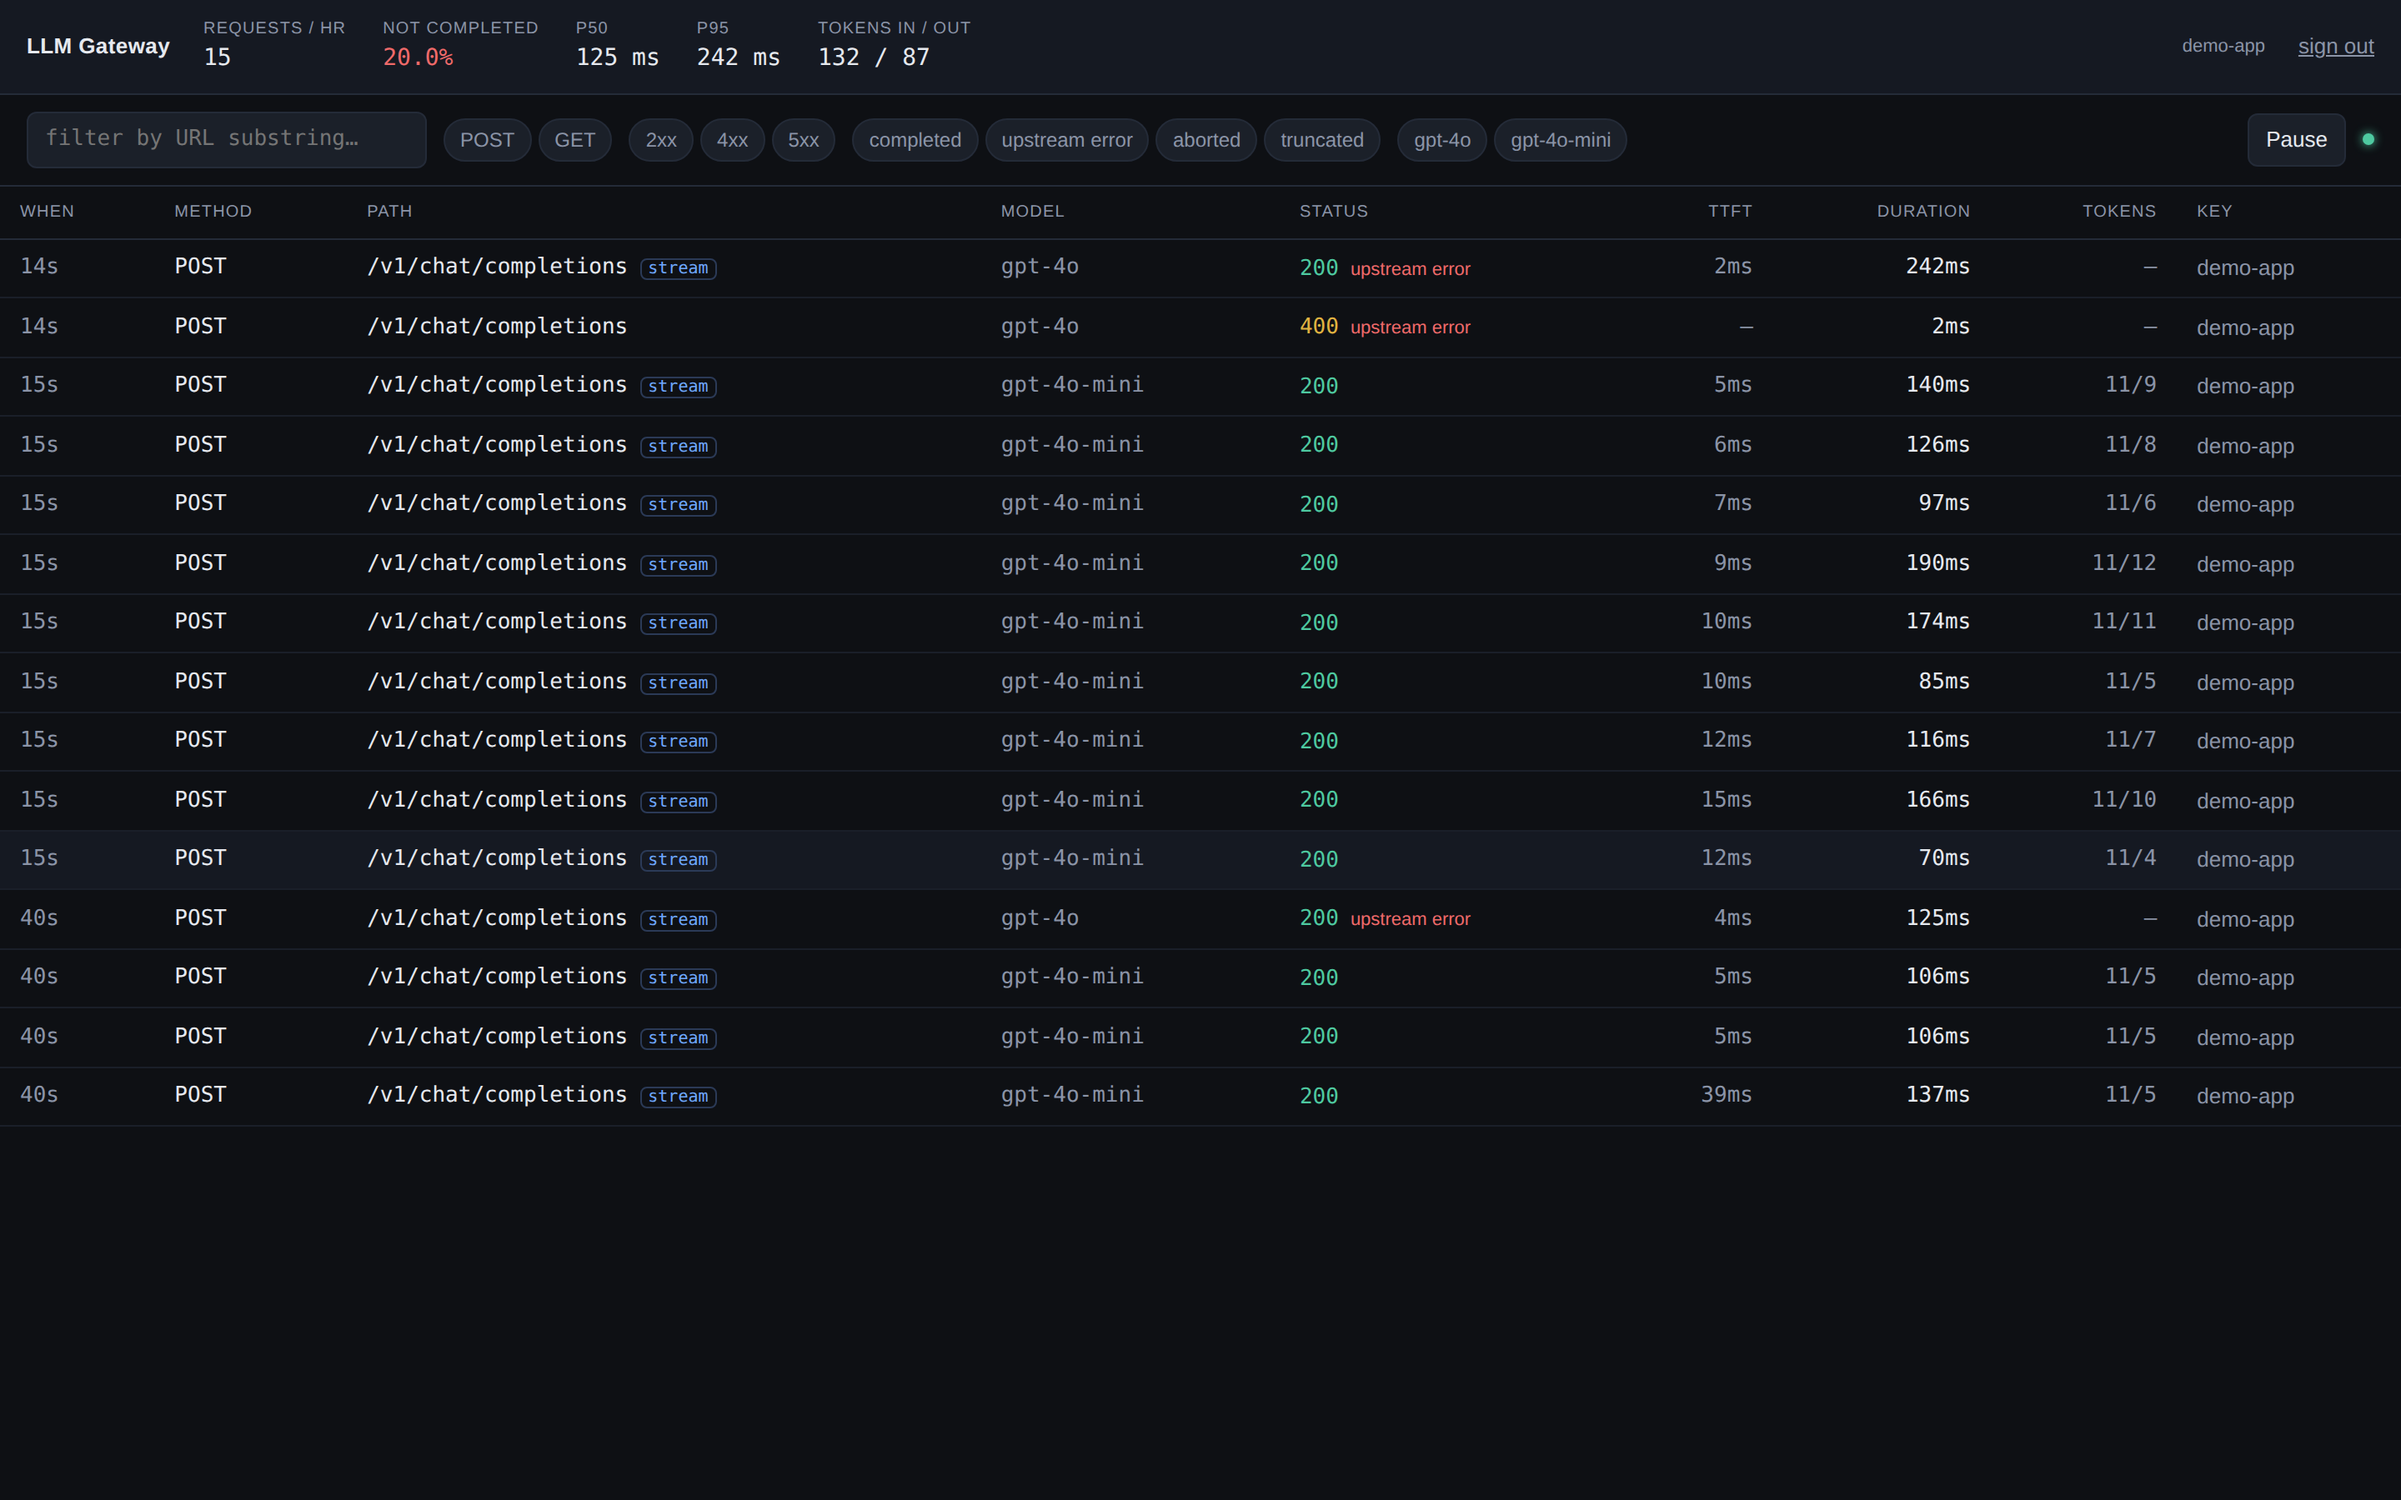
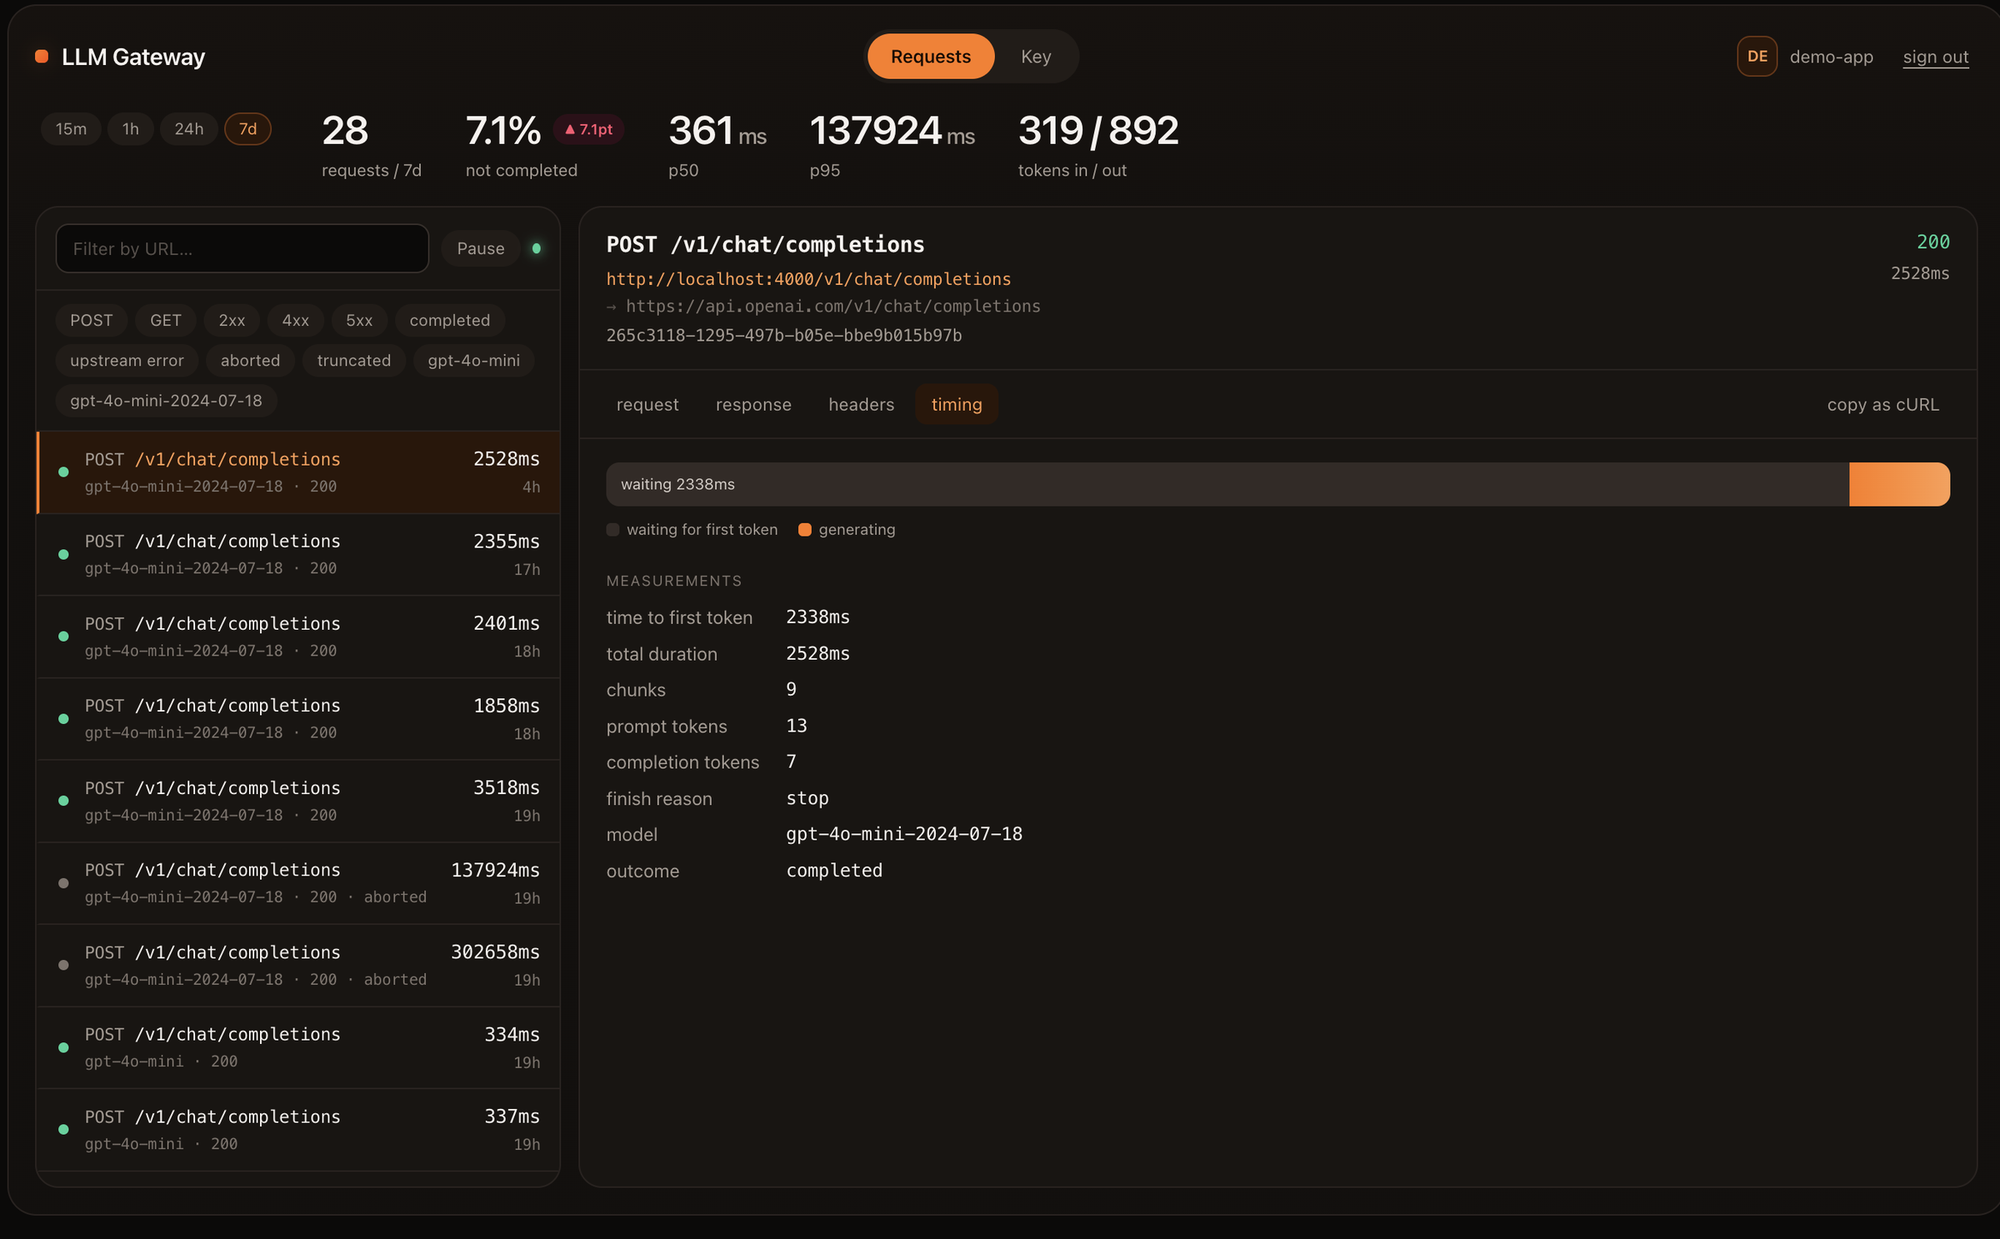
docs: refresh screenshots for the current dashboard
Both images predated the orange theme and the redesign, and they are the
first thing in the README — the project's first impression was a version
that no longer exists.

The hero is now the timing view: TTFT against total duration is the
measurement this project exists to surface, and it reads better than a
wall of headers. The detail shot shows the headers tab instead, because
that is where redaction, both URLs and the request id are all visible at
once.

A macOS screenshot-thumbnail overlay in the corner of the headers capture
was painted out with background sampled from the same image; no interface
content was altered.

diff --git a/README.md b/README.md
@@ -4,7 +4,7 @@ An authenticating proxy in front of the OpenAI API that records every request
 and response, streams the answer back untouched, and a dashboard for inspecting
 the traffic live.
 
-![The live request table](docs/dashboard.png)
+![The live request table, with one request open on its timing breakdown](docs/dashboard.png)
 
 ```
 ┌────────────┐  Authorization: Bearer gw_…  ┌──────────────┐  real OpenAI key  ┌────────────┐
@@ -294,7 +294,7 @@ tested by an upstream that is allowed to be inconvenient.*
 
 ## The dashboard
 
-![Request detail](docs/detail.png)
+![Request detail: both URLs, the request id, and headers with authorization redacted](docs/detail.png)
 
 The gateway key *is* the login: whoever holds it owns the traffic made with it,
 which is exactly the boundary the backend enforces.
